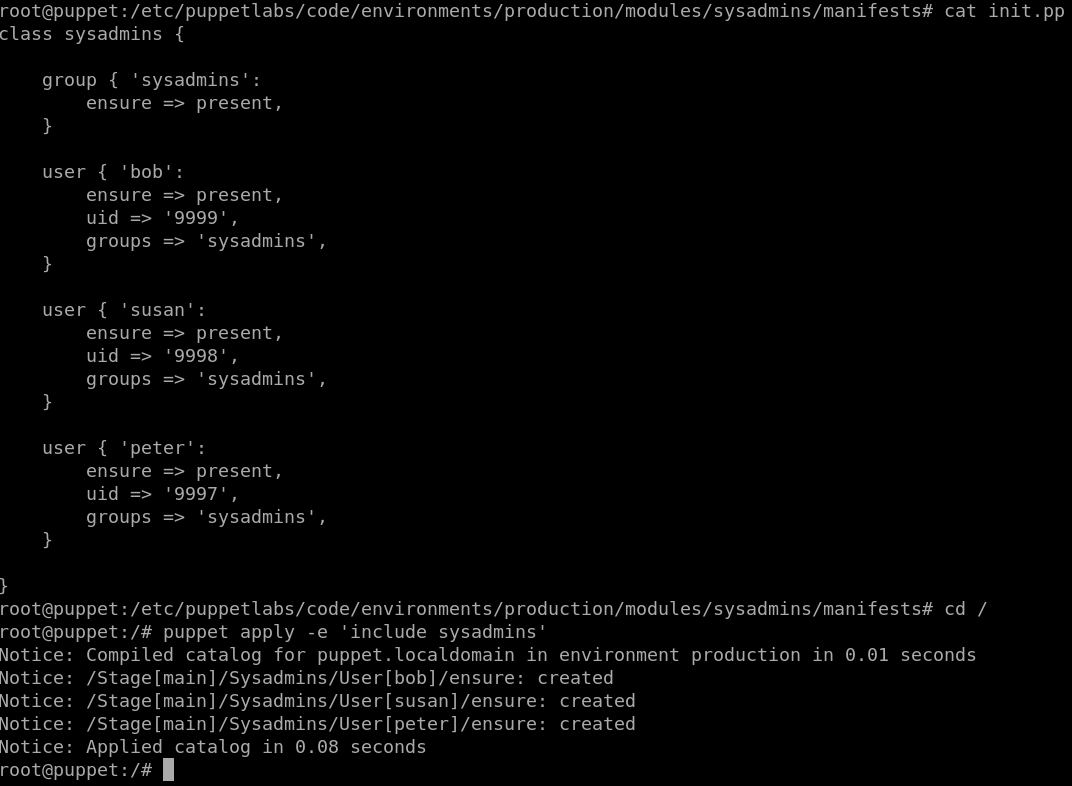
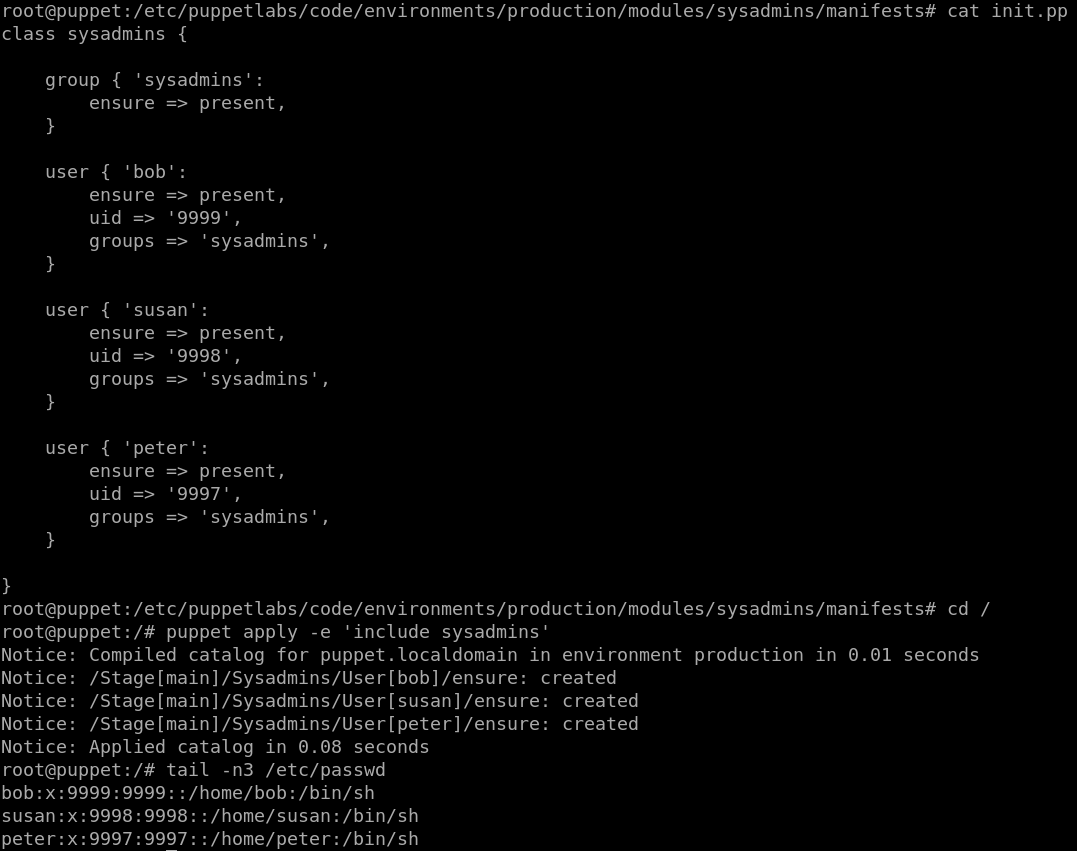
Atualizacao

diff --git a/README.md b/README.md
@@ -198,9 +198,9 @@ Após criada a estrutura de pasta sysadmins e adicionado o init.pp com a classe,
 # puppet apply -e 'include sysadmins'
 ```
 
-Deverá estar no seguinte path conforme o comando que havíamos executado "puppet config print":<br>
+Recapitulando:<br>
 <kbd>
-    <img src="https://github.com/fabiokerber/Jenkins/blob/main/img/040220221000.jpg">
+    <img src="https://github.com/fabiokerber/Puppet/blob/main/img/120620222058.png">
 </kbd>
 <br />
 <br />
